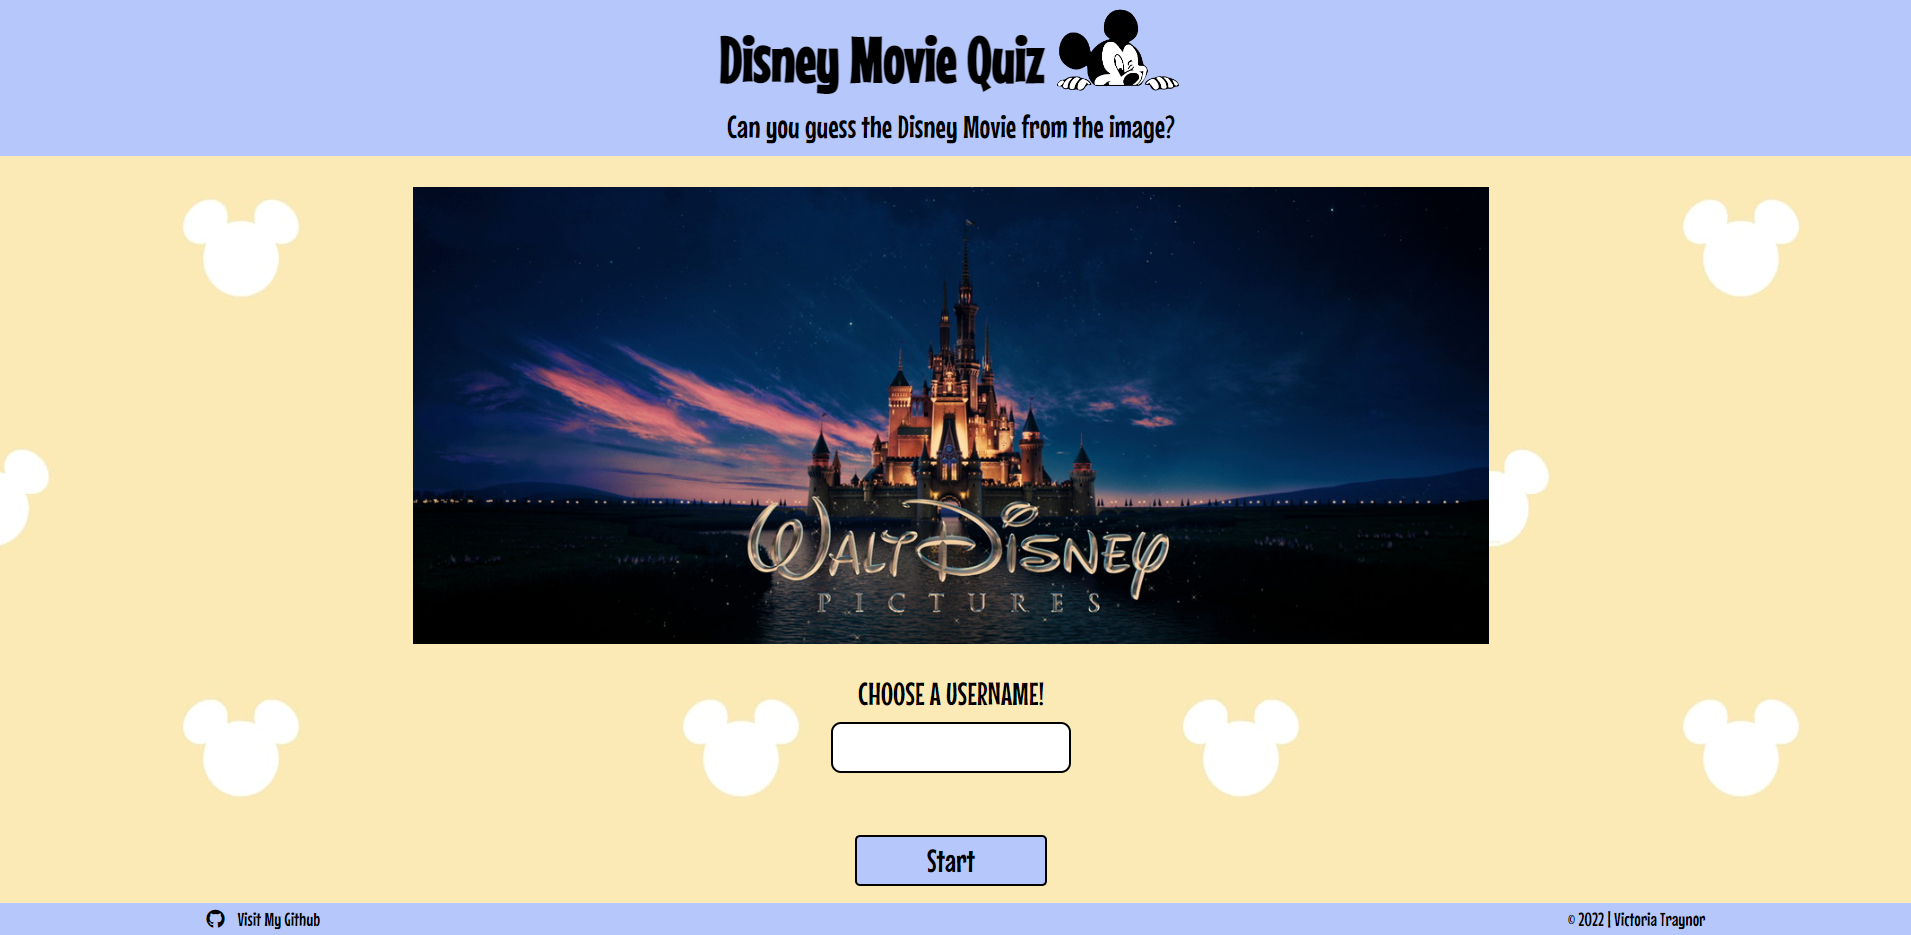
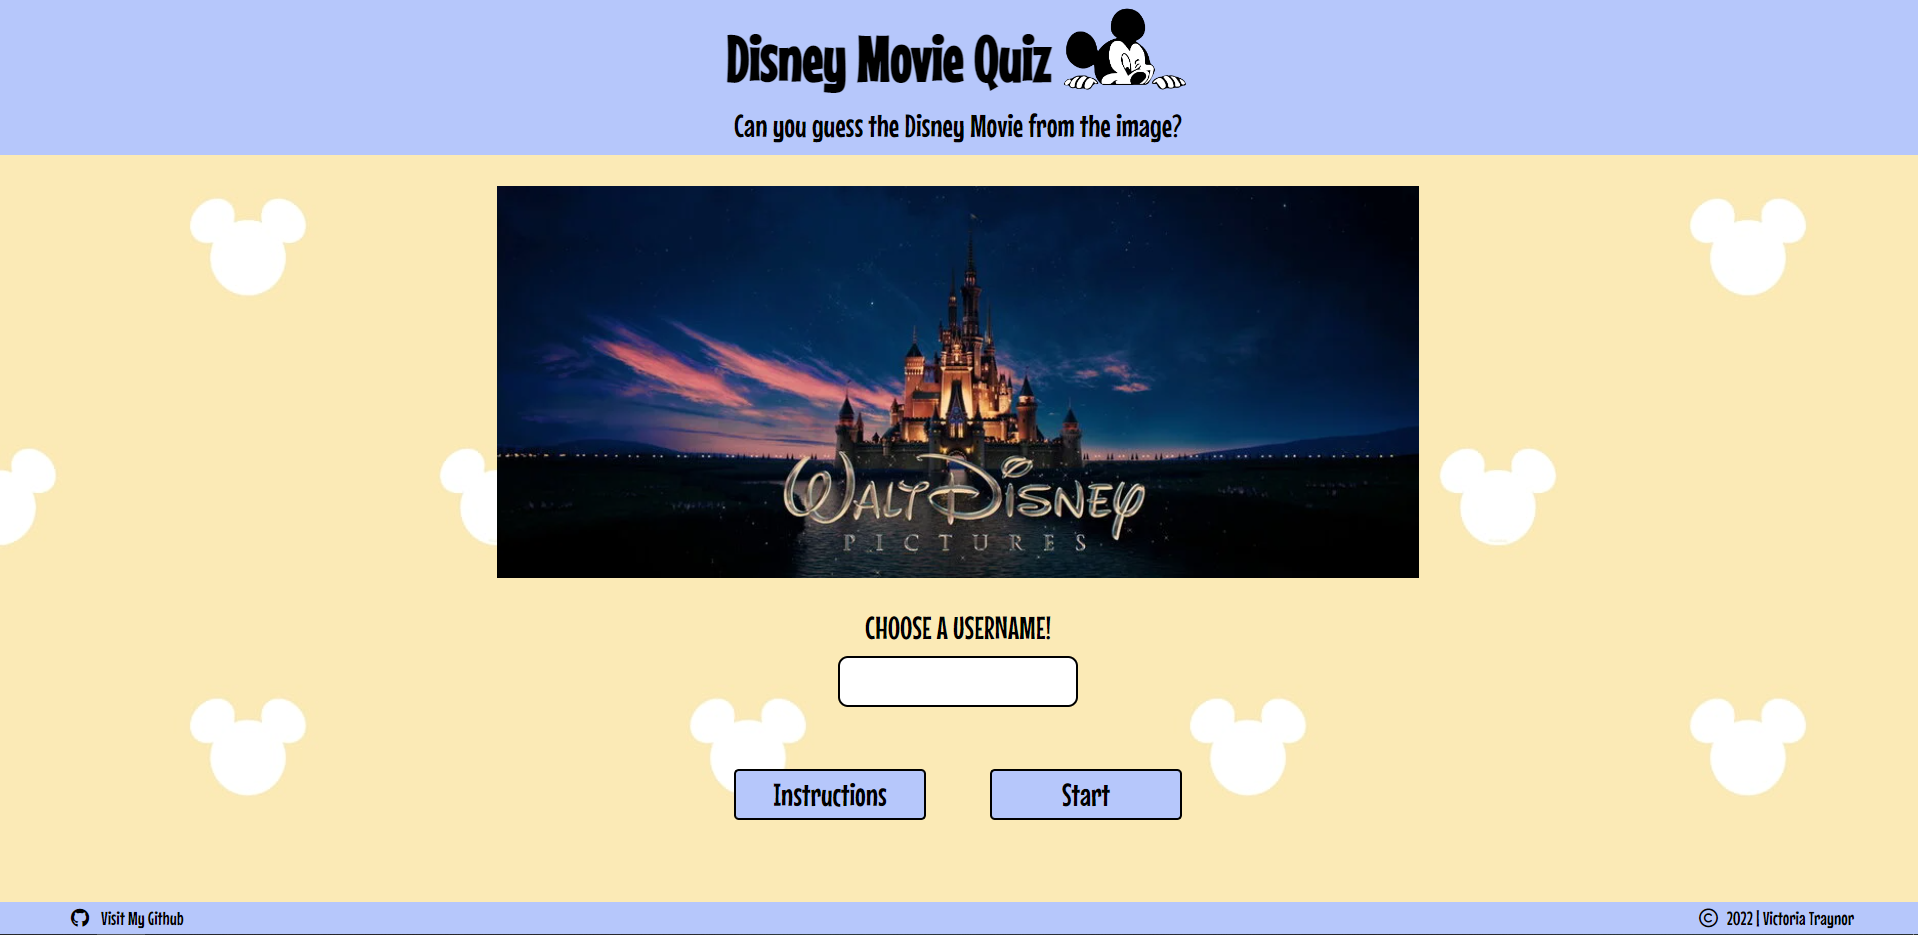
docs: Update features in README.md with images

diff --git a/README.md b/README.md
@@ -14,8 +14,11 @@ Welcome to the Disney Movie Quiz! This online quiz is built using HTML, CSS and 
 
 1. [Features](#features)  
     * [Home Page](#home-page)
+    * [Username Validation](#username-validation)
+    * [Header and Footer](#header-and-footer)
     * [Quiz Section](#quiz-section)
-    * [Results Page](#results-page)
+    * [Quiz Buttons](#quiz-buttons)
+    * [Results Section](#results-section)
     * [Features Left To Implement](#features-left-to-implement)
 2. [User Experience (UX)](#user-experience-ux)
     * [Site Goals](#site-goals)
@@ -44,15 +47,15 @@ Welcome to the Disney Movie Quiz! This online quiz is built using HTML, CSS and 
   - The Home Page features a splash image of the Disney Pictures Logo which is instantly recognizable. This will allow visitors to the site to know the quiz is built around Disney Movies.
 
 ![Index Page](assets/documentation/index-page.png)
-  <br>
 
-### Header and Footer
-  - Across all pages, a header and footer appear. The Header contains a H1 and paragraph, displaying the name of the quiz, as well as a description of what it's about. There is also an image of Mickey Mouse to further show the Disney relation.
-  - The Footer contains a link to my Github, with a FontAwesome icon and a copyright.
-  - Both the header and footer are within a flexbox, for great responsiveness across all devices and screen sizes.
+ - There are 2 buttons on the home page - 1 for instructions and 1 to start the game. The instructions button will open a Modal box, with some text to explain what the quiz is and what the user needs to do.
 
-![Header](assets/documentation/header.png)
-![Footer](assets/documentation/footer.png)
+ ![Instructions Box](assets/documentation/instructions.png)
+
+<br>
+
+[Back to Top](#table-of-contents)
+
 <br>
 
 ### Username Validation
@@ -63,6 +66,22 @@ Welcome to the Disney Movie Quiz! This online quiz is built using HTML, CSS and 
 
 <br>
 
+[Back to Top](#table-of-contents)
+
+<br>
+
+### Header and Footer
+  - Across all pages, a header and footer appear. The Header contains a H1 and paragraph, displaying the name of the quiz, as well as a description of what it's about. There is also an image of Mickey Mouse to further show the Disney relation.
+  - The Footer contains a link to my Github, with a FontAwesome icon and a copyright.
+  - Both the header and footer are within a flexbox, for great responsiveness across all devices and screen sizes.
+
+![Header](assets/documentation/header.png)
+![Footer](assets/documentation/footer.png)
+<br>
+
+[Back to Top](#table-of-contents)
+
+<br>
 
 ### Quiz Section
 
@@ -74,6 +93,18 @@ Welcome to the Disney Movie Quiz! This online quiz is built using HTML, CSS and 
 
 <br>
 
+### Progress Bar
+ 
+ - The progress bar is created through a combination of HTML, CSS and JavaScript. The basic outline is created on the index.html and hid until the quiz is started. With each click on the Next button, the width of the fill on the progress bar increases by 10%, in line with the 10 questions available.
+ - The progress bar was built following a tutorial available on [JavaScript.PlainEnglish.io](https://javascript.plainenglish.io/building-a-progress-bar-in-css-js-html-from-scratch-6449da06042)
+
+![Progress Bar Start](assets/documentation/progress-bar1.png)
+![Progress Bar Middle](assets/documentation/progress-bar2.png)
+
+[Back to Top](#table-of-contents)
+
+<br>
+
 ### Quiz Buttons
 
  - The Quiz buttons are all generated through JavaScript. The inner text will pull from the question array and display on each button.
@@ -81,10 +112,13 @@ Welcome to the Disney Movie Quiz! This online quiz is built using HTML, CSS and 
 
 ![Quiz Buttons Hover Style](assets/documentation/button-hover.png)
 
-
  - When an answer is selected, the correct answer will turn a shade of green and the incorrect ones will turn a shade of red. The selected answer will also highlight with a blue border to match the border of the quiz.
 
 ![Quiz Buttons Selected](assets/documentation/button-selected.png)
+
+<br>
+
+[Back to Top](#table-of-contents)
 
 <br>
 
@@ -96,6 +130,10 @@ Welcome to the Disney Movie Quiz! This online quiz is built using HTML, CSS and 
 
 ![Results Section](assets/documentation/results.png)
 ![Results Section](assets/documentation/results-master.png)
+
+<br>
+
+[Back to Top](#table-of-contents)
 
 <br>
 
